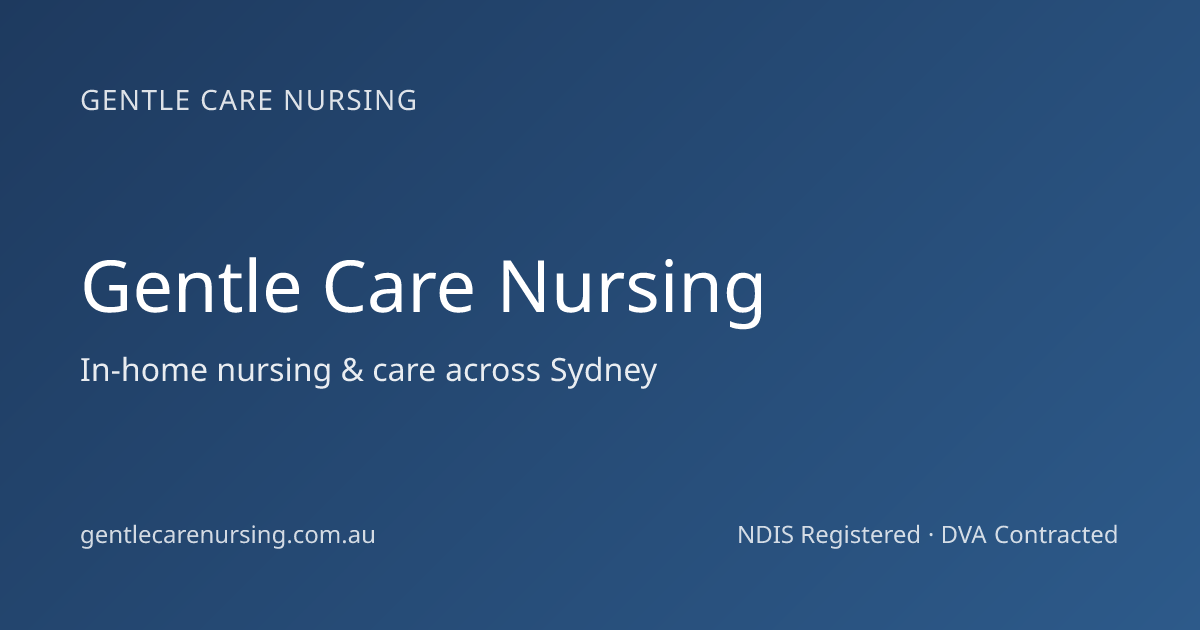
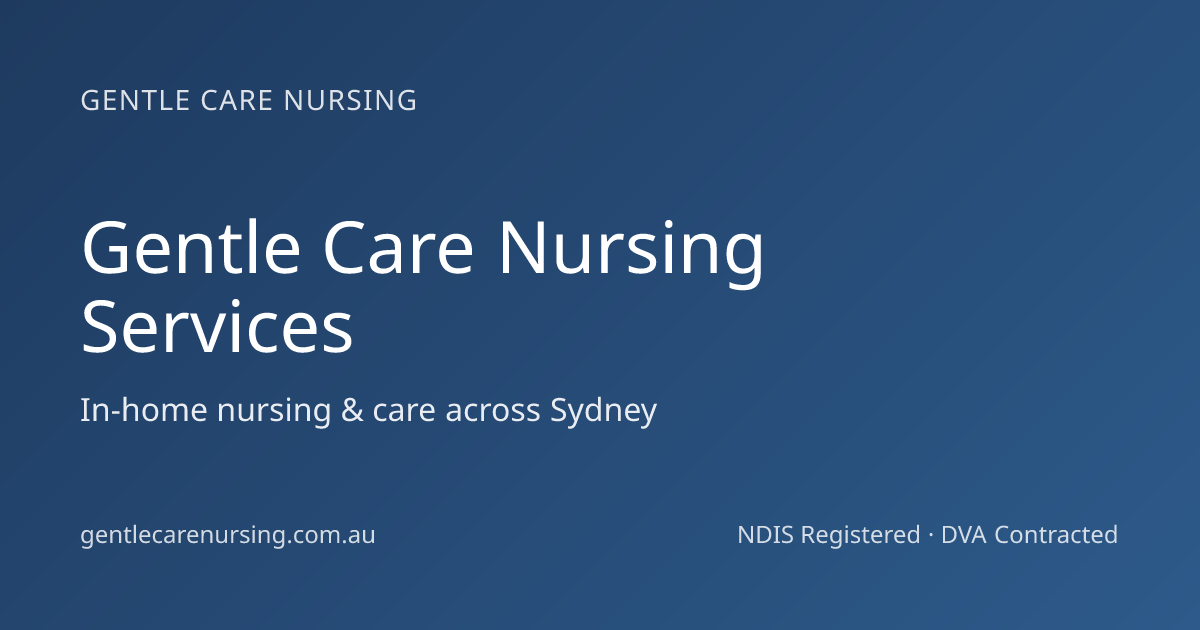
content: NAP consistency across site, schema, manifest, llms.txt, OG
Aligns every Name/Address/Phone reference with the verified Google
Business Profile. Inconsistent NAP citations dilute local-SEO trust
and break Google's entity matching.

Canonical NAP (from GBP, 2026-04-28):
  Name:    Gentle Care Nursing Services
  Address: Level 1/5 George St, North Strathfield NSW 2137, Australia
  Phone:   [phone redacted]

Name:
- 44 short-form "Gentle Care Nursing" mentions across 27 files updated
  to "Gentle Care Nursing Services" — covers page metadata, OG alt text,
  page titles, schema fields, FAQ answers, blog post bodies, llms.txt,
  manifest, offline page, design-system docs.
- Lookahead-aware bulk replace so existing "Gentle Care Nursing Services"
  citations are not double-suffixed.

Address:
- SITE.address normalised to one-line postal form matching GBP exactly:
  "Level 1/5 George St, North Strathfield NSW 2137, Australia"
  (no comma between locality and state, per AU postal convention).
- schema.ts MedicalBusiness PostalAddress decomposed correctly:
  streetAddress="Level 1/5 George St", addressLocality="North
  Strathfield", addressRegion="NSW", postalCode="2137",
  addressCountry="AU". Previously streetAddress contained the full
  one-line, breaking schema validators.

Phone:
- SITE.phone display: "[phone redacted]" (matches GBP exactly).
- SITE.phoneHref: "tel:[phone redacted]" (E.164, no spaces, works on all
  international carriers).
- offline.html updated to match.
- llms.txt Contact block updated.

Wiring:
[…]

Changed region(s): [[0.0617, 0.3317, 0.6475, 0.6937], [0.2775, 0.3317, 0.3083, 0.3619]]

diff --git a/src/lib/constants.ts b/src/lib/constants.ts
@@ -1,15 +1,31 @@
 /**
- * Site-wide constants for Gentle Care Nursing.
+ * Site-wide constants for Gentle Care Nursing Services.
  * Update these to reflect final content and GoHighLevel integration.
  */
 
+/**
+ * Canonical NAP (Name / Address / Phone) — must match the verified
+ * Google Business Profile exactly. Any drift breaks local-SEO trust.
+ *
+ * GBP source of truth (last confirmed 2026-04-28):
+ *   Name:    Gentle Care Nursing Services
+ *   Address: Level 1/5 George St, North Strathfield NSW 2137, Australia
+ *   Phone:   [phone redacted]
+ *
+ * Display rules:
+ *   - SITE.name           -> exact business name shown on GBP
+ *   - SITE.address        -> single-line postal form for body text and schema
+ *   - SITE.phone          -> human-readable display, matches GBP exactly
+ *   - SITE.phoneHref      -> tel: link in E.164 (international), so all
+ *                            carriers route correctly (no spaces in tel:)
+ */
 export const SITE = {
   name: "Gentle Care Nursing Services",
   tagline: "Personalised in-home nursing and care",
-  phone: "[phone redacted]",
-  phoneHref: "tel:[phone redacted]",
+  phone: "[phone redacted]",
+  phoneHref: "tel:[phone redacted]",
   email: "[email redacted]",
-  address: "Level 1/5 George St, North Strathfield, NSW 2137",
+  address: "Level 1/5 George St, North Strathfield NSW 2137, Australia",
   /** Optional: Google Business Profile URL for entity linking and footer */
   gbpUrl: "",
   social: {

diff --git a/src/lib/schema.ts b/src/lib/schema.ts
@@ -30,15 +30,14 @@ export function getLocalBusinessSchema() {
     url: INTEGRATIONS.siteUrl,
     telephone: SITE.phone || undefined,
     email: SITE.email || undefined,
-    address: SITE.address
-      ? {
-          "@type": "PostalAddress",
-          streetAddress: SITE.address,
-          addressLocality: "North Strathfield",
-          addressRegion: "NSW",
-          addressCountry: "AU",
-        }
-      : undefined,
+    address: {
+      "@type": "PostalAddress",
+      streetAddress: "Level 1/5 George St",
+      addressLocality: "North Strathfield",
+      addressRegion: "NSW",
+      postalCode: "2137",
+      addressCountry: "AU",
+    },
     geo: {
       "@type": "GeoCoordinates",
       latitude: -33.864,

diff --git a/src/app/layout.tsx b/src/app/layout.tsx
@@ -36,11 +36,11 @@ const siteUrl = process.env.NEXT_PUBLIC_SITE_URL ?? "https://gentlecarenursing.c
 export const metadata: Metadata = {
   metadataBase: new URL(siteUrl),
   title: {
-    default: "Gentle Care Nursing | In-Home Nursing & Care Services",
-    template: "%s | Gentle Care Nursing",
+    default: "Gentle Care Nursing Services | In-Home Nursing & Care",
+    template: "%s | Gentle Care Nursing Services",
   },
   description:
-    "Personalised in-home nursing and care services. Registered NDIS and DVA provider. Trusted by families, support coordinators, and healthcare professionals.",
+    "Personalised in-home nursing and care services. Registered NDIS provider and DVA Contracted Community Nursing Provider. Trusted by families, support coordinators, and healthcare professionals.",
   keywords: [
     "NDIS nursing",
     "in-home care",
@@ -50,14 +50,14 @@ export const metadata: Metadata = {
     "personal care",
     "in-home nursing",
     "registered NDIS provider",
-    "DVA provider",
+    "DVA contracted community nursing",
   ],
-  authors: [{ name: "Gentle Care Nursing" }],
+  authors: [{ name: "Gentle Care Nursing Services" }],
   openGraph: {
     type: "website",
-    siteName: "Gentle Care Nursing",
+    siteName: "Gentle Care Nursing Services",
     locale: "en_AU",
-    images: [{ url: "/images/og/default.png", width: 1200, height: 630, alt: "Gentle Care Nursing. In-home nursing and care" }],
+    images: [{ url: "/images/og/default.png", width: 1200, height: 630, alt: "Gentle Care Nursing Services. In-home nursing and care" }],
   },
   twitter: {
     card: "summary_large_image",
@@ -68,7 +68,7 @@ export const metadata: Metadata = {
     follow: true,
   },
   manifest: "/manifest.webmanifest",
-  applicationName: "Gentle Care Nursing",
+  applicationName: "Gentle Care Nursing Services",
   appleWebApp: {
     capable: true,
     title: "Gentle Care",

diff --git a/src/content/services.ts b/src/content/services.ts
@@ -75,9 +75,9 @@ export const NDIS_PAGE: ServicePageData = {
   title: "NDIS Services",
   href: "/ndis",
   snippetAnswer:
-    "NDIS in-home nursing is skilled nursing and personal care at home for NDIS participants, delivered by a registered NDIS provider like Gentle Care Nursing across Sydney.",
+    "NDIS in-home nursing is skilled nursing and personal care at home for NDIS participants, delivered by a registered NDIS provider like Gentle Care Nursing Services across Sydney.",
   intro:
-    "As a registered NDIS provider, Gentle Care Nursing delivers personalised in-home nursing and support for NDIS participants. We work closely with participants, families, and support coordinators to provide high-quality care that helps people live more independently.",
+    "As a registered NDIS provider, Gentle Care Nursing Services delivers personalised in-home nursing and support for NDIS participants. We work closely with participants, families, and support coordinators to provide high-quality care that helps people live more independently.",
 
   whoItHelps: {
     title: "Who This Is For",
@@ -157,9 +157,9 @@ export const NDIS_PAGE: ServicePageData = {
   faqs: [
     {
       id: "ndis-registered",
-      question: "Is Gentle Care Nursing a registered NDIS provider?",
+      question: "Is Gentle Care Nursing Services a registered NDIS provider?",
       answer:
-        "Yes. Gentle Care Nursing is a fully registered NDIS provider. We meet all quality and safety standards required by the NDIS Quality and Safeguards Commission.",
+        "Yes. Gentle Care Nursing Services is a fully registered NDIS provider. We meet all quality and safety standards required by the NDIS Quality and Safeguards Commission.",
     },
     {
       id: "ndis-get-started",
@@ -193,7 +193,7 @@ export const DVA_PAGE: ServicePageData = {
   title: "DVA & Community Nursing",
   href: "/dva",
   snippetAnswer:
-    "DVA Community Nursing is in-home nursing and care for eligible Veteran Card holders, funded by the Department of Veterans' Affairs and delivered by contracted providers like Gentle Care Nursing in Sydney.",
+    "DVA Community Nursing is in-home nursing and care for eligible Veteran Card holders, funded by the Department of Veterans' Affairs and delivered by contracted providers like Gentle Care Nursing Services in Sydney.",
   intro:
     "Gentle Care Nursing Services is a DVA Contracted Community Nursing Provider, supporting eligible Veteran Card holders with clinically required nursing and personal care services at home.",
 
@@ -313,7 +313,7 @@ export const AGED_CARE_PAGE: ServicePageData = {
   snippetAnswer:
     "We support older Australians through Support at Home, DVA, and private care arrangements. We can also work with clients, families and care partners to deliver approved in-home nursing and personal care services.",
   intro:
-    "Gentle Care Nursing helps older Australians stay safe, comfortable, and independent at home. We support older Australians through Support at Home, DVA, and private care arrangements, working with clients, families and care partners to deliver approved in-home nursing and personal care services.",
+    "Gentle Care Nursing Services helps older Australians stay safe, comfortable, and independent at home. We support older Australians through Support at Home, DVA, and private care arrangements, working with clients, families and care partners to deliver approved in-home nursing and personal care services.",
 
   whoItHelps: {
     title: "Who This Is For",
@@ -432,7 +432,7 @@ export const PRIVATE_NURSING_PAGE: ServicePageData = {
   snippetAnswer:
     "Private in-home nursing is nursing and personal care you pay for yourself (not NDIS, DVA, or aged care funded), with no waitlists and flexible scheduling across Sydney.",
   intro:
-    "When you need nursing or personal care outside of funded programs, Gentle Care Nursing provides private in-home services tailored to your needs. No waitlists, no complex applications. Just quality care when you need it.",
+    "When you need nursing or personal care outside of funded programs, Gentle Care Nursing Services provides private in-home services tailored to your needs. No waitlists, no complex applications. Just quality care when you need it.",
 
   whoItHelps: {
     title: "Who This Is For",
@@ -548,7 +548,7 @@ export const POST_HOSPITAL_PAGE: ServicePageData = {
   title: "Post-Hospital Nursing & Care at Home",
   href: "/services/post-hospital-care",
   snippetAnswer:
-    "Post-hospital in-home nursing is support from qualified nurses and carers after someone leaves hospital, so recovery continues safely at home. Gentle Care Nursing coordinates with hospital discharge teams and families to start visits quickly across Sydney.",
+    "Post-hospital in-home nursing is support from qualified nurses and carers after someone leaves hospital, so recovery continues safely at home. Gentle Care Nursing Services coordinates with hospital discharge teams and families to start visits quickly across Sydney.",
   intro:
     "Leaving hospital can feel overwhelming. Our post-hospital nursing and care at home service helps you or your loved one recover safely and comfortably, with skilled support and clear communication from day one.",
 

diff --git a/src/content/blog.ts b/src/content/blog.ts
@@ -42,7 +42,7 @@ export const BLOG_CATEGORIES: Record<BlogCategory, { label: string; color: strin
 };
 
 const DEFAULT_AUTHOR: BlogAuthor = {
-  name: "Gentle Care Nursing",
+  name: "Gentle Care Nursing Services",
   role: "Clinical Team",
 };
 
@@ -84,7 +84,7 @@ export const BLOG_POSTS: BlogPost[] = [
         <li>Provide regular updates to your coordinator and family</li>
         <li>Be transparent about pricing and service agreements</li>
       </ul>
-      <p>At Gentle Care Nursing, we keep our client list intentionally small so every person receives dedicated, personalised attention. We're a registered NDIS provider, led by a care professional with over 10 years of hands-on experience in disability, aged care and in-home support.</p>
+      <p>At Gentle Care Nursing Services, we keep our client list intentionally small so every person receives dedicated, personalised attention. We're a registered NDIS provider, led by a care professional with over 10 years of hands-on experience in disability, aged care and in-home support.</p>
 
       <h2>Questions to ask your provider</h2>
       <p>Before signing a service agreement, ask:</p>
@@ -134,7 +134,7 @@ export const BLOG_POSTS: BlogPost[] = [
       </ul>
 
       <h2>The personalised-care difference</h2>
-      <p>A personalised provider like Gentle Care Nursing takes a different approach. We intentionally limit our client load so we can offer:</p>
+      <p>A personalised provider like Gentle Care Nursing Services takes a different approach. We intentionally limit our client load so we can offer:</p>
       <ul>
         <li>Consistent, familiar nurses and carers</li>
         <li>Faster response times (we aim to respond within 24 hours)</li>
@@ -188,7 +188,7 @@ export const BLOG_POSTS: BlogPost[] = [
         <li>Providing consistent, familiar carers</li>
         <li>Being responsive when needs change</li>
       </ul>
-      <p>At Gentle Care Nursing, we believe aged care should feel personal. That's why we keep our client load small and match every person with a dedicated carer who understands their needs, preferences, and personality.</p>
+      <p>At Gentle Care Nursing Services, we believe aged care should feel personal. That's why we keep our client load small and match every person with a dedicated carer who understands their needs, preferences, and personality.</p>
     `,
     category: "aged-care",
     author: DEFAULT_AUTHOR,
@@ -235,7 +235,7 @@ export const BLOG_POSTS: BlogPost[] = [
         <li>Had a fall before hospitalisation and is at risk of falling again</li>
       </ul>
 
-      <h2>How Gentle Care Nursing helps</h2>
+      <h2>How Gentle Care Nursing Services helps</h2>
       <p>We work closely with hospital discharge teams to ensure a seamless transition from hospital to home. Our registered nurses can be in your loved one's home within 24 hours of referral, providing clinical oversight, personal care, and the peace of mind that comes from knowing a qualified professional is looking after things.</p>
     `,
     category: "clinical",
@@ -276,7 +276,7 @@ export const BLOG_POSTS: BlogPost[] = [
         <li><strong>Connect with other carers:</strong> Carer support groups (online and in-person) provide understanding and practical advice.</li>
         <li><strong>Consider in-home nursing:</strong> A registered nurse visiting regularly can take clinical tasks off your plate — medication management, wound care, health monitoring — so you can focus on being a family member, not a clinician.</li>
       </ul>
-      <p>At Gentle Care Nursing, we support family carers as much as we support clients. If you're feeling overwhelmed, get in touch. We can discuss what support might help, with no obligation.</p>
+      <p>At Gentle Care Nursing Services, we support family carers as much as we support clients. If you're feeling overwhelmed, get in touch. We can discuss what support might help, with no obligation.</p>
     `,
     category: "family-carers",
     author: DEFAULT_AUTHOR,

diff --git a/src/app/referrers/page.tsx b/src/app/referrers/page.tsx
@@ -14,7 +14,7 @@ import { getBreadcrumbListSchema, getFaqSchema } from "@/lib/schema";
 
 const REFERRER_FAQS = [
   {
-    question: "How do I refer a client to Gentle Care Nursing?",
+    question: "How do I refer a client to Gentle Care Nursing Services?",
     answer:
       "You can use our Request Care form with the client’s details, care needs, and funding type, or contact us directly by phone or email. We’ll acknowledge your referral straight away and respond personally within 24 hours.",
   },
@@ -40,10 +40,10 @@ const canonical = `${INTEGRATIONS.siteUrl}/referrers`;
 export const metadata = createMetadata({
   title: "For Coordinators & Referrers",
   description:
-    "Information for NDIS support coordinators, plan managers, hospital discharge planners, and healthcare professionals who want to refer to Gentle Care Nursing.",
+    "Information for NDIS support coordinators, plan managers, hospital discharge planners, and healthcare professionals who want to refer to Gentle Care Nursing Services.",
   canonical,
   openGraph: {
-    images: [{ url: "/images/og/referrers.png", width: 1200, height: 630, alt: "For Referrers — Gentle Care Nursing" }],
+    images: [{ url: "/images/og/referrers.png", width: 1200, height: 630, alt: "For Referrers — Gentle Care Nursing Services" }],
   },
 });
 
@@ -83,7 +83,7 @@ export default function ReferrersPage() {
           <p className="mx-auto mt-6 max-w-2xl text-center text-lg leading-relaxed text-muted-foreground sm:text-xl">
             Whether you’re an NDIS support coordinator, plan manager, hospital
             discharge planner, GP, or other health professional, we make it easy
-            to refer to Gentle Care Nursing and stay informed about your client’s care.
+            to refer to Gentle Care Nursing Services and stay informed about your client’s care.
           </p>
         </Container>
       </Section>

diff --git a/src/content/about.ts b/src/content/about.ts
@@ -4,10 +4,10 @@
 
 /** One-sentence entity definition for GEO / schema and on-page use */
 export const ELEVATOR_PITCH =
-  "Gentle Care Nursing is a Sydney-based, registered NDIS provider and DVA Contracted Community Nursing Provider, delivering in-home nursing and personal care to families, NDIS participants, and referral partners.";
+  "Gentle Care Nursing Services is a Sydney-based, registered NDIS provider and DVA Contracted Community Nursing Provider, delivering in-home nursing and personal care to families, NDIS participants, and referral partners.";
 
 export const ABOUT_INTRO = {
-  title: "About Gentle Care Nursing",
+  title: "About Gentle Care Nursing Services",
   lead: "We are a personalised nursing and care provider focused on providing high-quality support to a smaller number of people. This ensures every individual receives the time and attention they need to maintain their independence and dignity.",
   /** Stats in prose for GEO / authority */
   statsLine: "Led by a care professional with over 10 years of hands-on experience in disability, aged care and in-home support. We aim to respond to every enquiry within 24 hours.",
@@ -83,7 +83,7 @@ export const FOUNDER_STORY = {
   quote:
     "My favourite part of this work is being able to make a meaningful difference in people’s lives while giving families peace of mind that their loved one is being cared for with compassion, dignity, and respect.",
   imageSrc: "/images/gemma-profile.jpg",
-  imageAlt: "Gemma, Founder and Clinical Director of Gentle Care Nursing",
+  imageAlt: "Gemma, Founder and Clinical Director of Gentle Care Nursing Services",
 } as const;
 
 /** Team members — placeholder data until Gemma provides real team info */
@@ -109,7 +109,7 @@ export const TEAM_MEMBERS = [
 export const MILESTONES = [
   {
     year: "2018",
-    title: "Gentle Care Nursing Founded",
+    title: "Gentle Care Nursing Services Founded",
     description:
       "Born from a belief that in-home care should be personal, responsive, and clinician-led.",
   },

diff --git a/src/content/faq.ts b/src/content/faq.ts
@@ -15,11 +15,11 @@ export const FAQ_CATEGORIES: FaqCategory[] = [
         id: "registered-provider",
         question: "Are you a registered NDIS and DVA provider?",
         answer:
-          "Yes. Gentle Care Nursing is fully registered with the NDIS and is a DVA Contracted Community Nursing Provider, supporting eligible Veteran Card holders with clinically required nursing and personal care services at home. We meet all required quality and safety standards.",
+          "Yes. Gentle Care Nursing Services is fully registered with the NDIS and is a DVA Contracted Community Nursing Provider, supporting eligible Veteran Card holders with clinically required nursing and personal care services at home. We meet all required quality and safety standards.",
       },
       {
         id: "what-services",
-        question: "What services does Gentle Care Nursing provide?",
+        question: "What services does Gentle Care Nursing Services provide?",
         answer:
           "We provide in-home nursing and personal care services across NDIS, DVA, aged care (Support at Home and CHSP), and private funding. Our services include clinical nursing, personal care, medication management, wound care, post-hospital recovery, respite, and more.",
       },
@@ -117,7 +117,7 @@ export const FAQ_CATEGORIES: FaqCategory[] = [
     items: [
       {
         id: "ndis-registered",
-        question: "Is Gentle Care Nursing a registered NDIS provider?",
+        question: "Is Gentle Care Nursing Services a registered NDIS provider?",
         answer:
           "Yes. We are a fully registered NDIS provider, meeting all quality and safety standards required by the NDIS Quality and Safeguards Commission.",
       },
@@ -125,7 +125,7 @@ export const FAQ_CATEGORIES: FaqCategory[] = [
         id: "dva-contracted",
         question: "Are you a DVA Contracted Community Nursing Provider?",
         answer:
-          "Yes. Gentle Care Nursing is contracted to provide DVA Community Nursing services. We support eligible Veteran Card holders with clinically required nursing and personal care services at home and handle DVA claims directly.",
+          "Yes. Gentle Care Nursing Services is contracted to provide DVA Community Nursing services. We support eligible Veteran Card holders with clinically required nursing and personal care services at home and handle DVA claims directly.",
       },
       {
         id: "different",

diff --git a/public/offline.html b/public/offline.html
@@ -3,7 +3,7 @@
   <head>
     <meta charset="utf-8" />
     <meta name="viewport" content="width=device-width, initial-scale=1" />
-    <title>Offline · Gentle Care Nursing</title>
+    <title>Offline · Gentle Care Nursing Services</title>
     <link rel="icon" href="/icons/icon-192.png" type="image/png" />
     <style>
       :root { color-scheme: light; }
@@ -48,8 +48,8 @@
   <body>
     <main class="card">
       <h1>You're offline</h1>
-      <p>The Gentle Care Nursing website needs an internet connection to load. If you need urgent help right now, you can call us directly.</p>
-      <a class="phone" href="tel:[phone redacted]">Call [phone redacted]</a>
+      <p>The Gentle Care Nursing Services website needs an internet connection to load. If you need urgent help right now, you can call us directly.</p>
+      <a class="phone" href="tel:[phone redacted]">Call [phone redacted]</a>
       <small>Reconnect to the internet and reload to continue browsing.</small>
     </main>
   </body>

diff --git a/src/app/blog/[slug]/opengraph-image.tsx b/src/app/blog/[slug]/opengraph-image.tsx
@@ -4,13 +4,13 @@ import { getBlogPostBySlug } from "@/content/blog";
 export const runtime = "nodejs";
 export const size = { width: 1200, height: 630 };
 export const contentType = "image/png";
-export const alt = "Gentle Care Nursing blog post";
+export const alt = "Gentle Care Nursing Services blog post";
 
 export default async function BlogOgImage({ params }: { params: Promise<{ slug: string }> }) {
   const { slug } = await params;
   const post = getBlogPostBySlug(slug);
 
-  const title = post?.title ?? "Gentle Care Nursing";
+  const title = post?.title ?? "Gentle Care Nursing Services";
   const category = post?.category ?? "";
   const author = post?.author?.name ?? "";
 

diff --git a/src/app/page.tsx b/src/app/page.tsx
@@ -4,12 +4,12 @@ import { INTEGRATIONS } from "@/config/integrations";
 import HomePageContent from "@/components/sections/HomePageContent";
 
 export const metadata: Metadata = createMetadata({
-  title: "Gentle Care Nursing | In-Home Nursing & Care Services",
+  title: "Gentle Care Nursing Services | In-Home Nursing & Care Services",
   description:
     "Personalised in-home nursing and care services. Registered NDIS and DVA provider. Trusted by families, support coordinators, and healthcare professionals.",
   canonical: `${INTEGRATIONS.siteUrl}/`,
   openGraph: {
-    images: [{ url: "/images/og/home.png", width: 1200, height: 630, alt: "Gentle Care Nursing — personalised in-home nursing & care across Sydney" }],
+    images: [{ url: "/images/og/home.png", width: 1200, height: 630, alt: "Gentle Care Nursing Services — personalised in-home nursing & care across Sydney" }],
   },
 });
 

diff --git a/src/app/services/page.tsx b/src/app/services/page.tsx
@@ -27,7 +27,7 @@ export const metadata = createMetadata({
   ],
   canonical: `${INTEGRATIONS.siteUrl}/services`,
   openGraph: {
-    images: [{ url: "/images/og/services.png", width: 1200, height: 630, alt: "In-Home Services — Gentle Care Nursing" }],
+    images: [{ url: "/images/og/services.png", width: 1200, height: 630, alt: "In-Home Services — Gentle Care Nursing Services" }],
   },
 });
 
@@ -44,7 +44,7 @@ export default function ServicesPage() {
               Clinical Excellence <br/> at Home
             </Heading>
             <p className="mt-8 text-xl leading-relaxed text-muted-foreground sm:text-2xl font-medium max-w-3xl">
-              Gentle Care Nursing provides high-end, personalised in-home nursing and care. 
+              Gentle Care Nursing Services provides high-end, personalised in-home nursing and care. 
               We focus on quality over volume, ensuring every participant receives the 
               dedicated attention they deserve.
             </p>